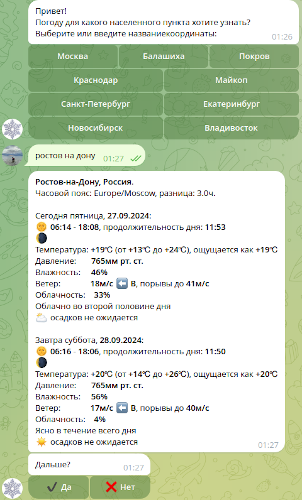
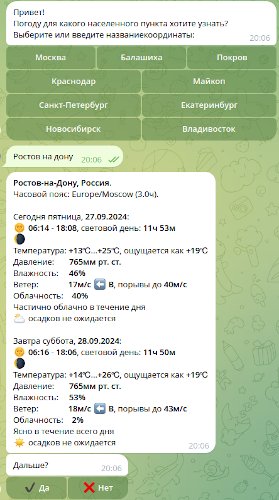
Cosmetic change

diff --git a/lib/weather_forecast.rb b/lib/weather_forecast.rb
@@ -179,9 +179,9 @@ class WeatherForecast
     when 'wind'                  # Wind speed is high (greater than 30 kph or mph) 
       "💨"
     when 'showers-day'           # Rain showers during the day
-      "&#x2614;"
+      "&#127783;"
     when 'showers-night'         # Rain showers during the night
-      "&#x2614;"
+      "&#127783;"
     when 'rain'                  # Amount of rainfall is greater than zero 
       "&#127783;"
     when 'thunder-rain'          # Thunderstorms throughout the day or night
@@ -197,7 +197,7 @@ class WeatherForecast
     when 'snow-showers-night'    # Periods of snow during the night
       "&#127784;"
     when 'fog'                   # Visibility is low (lower than one kilometer or mile)
-      "&#x1F301;"
+      "&#x1F32B;"
     when 'clear-day'             # clear day sky
       "&#9728;"
     when 'clear-night'           # clear night sky
